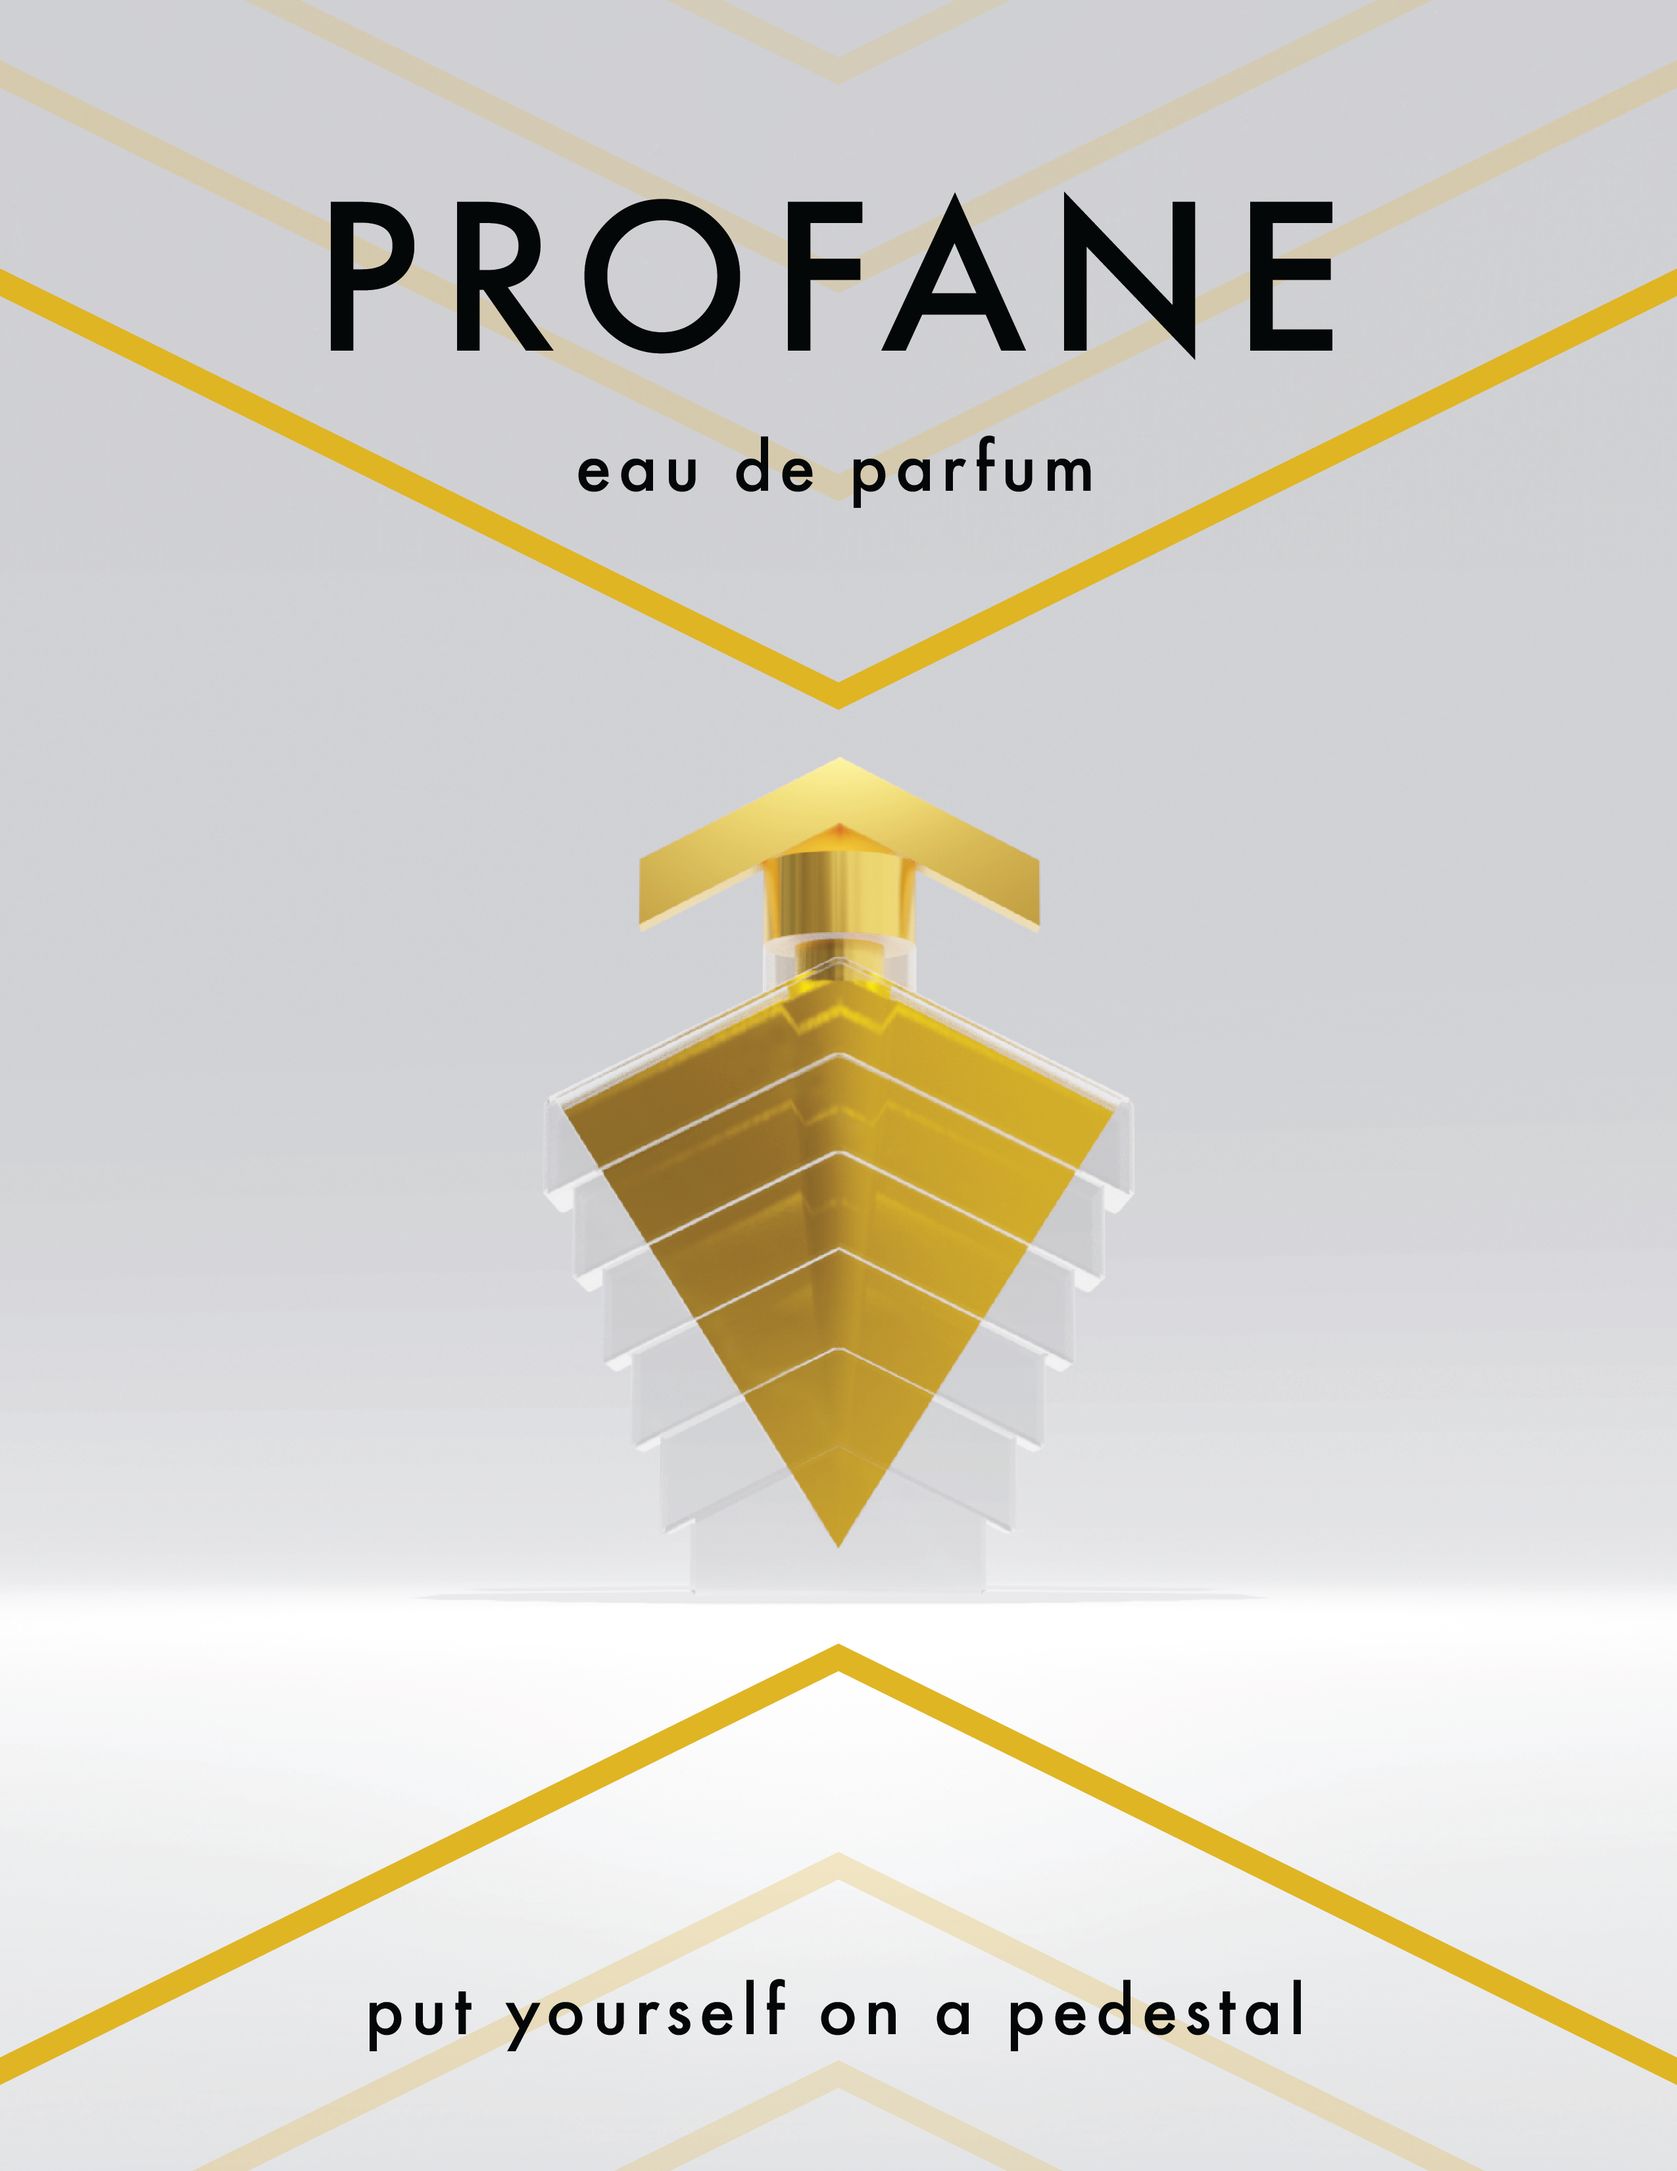
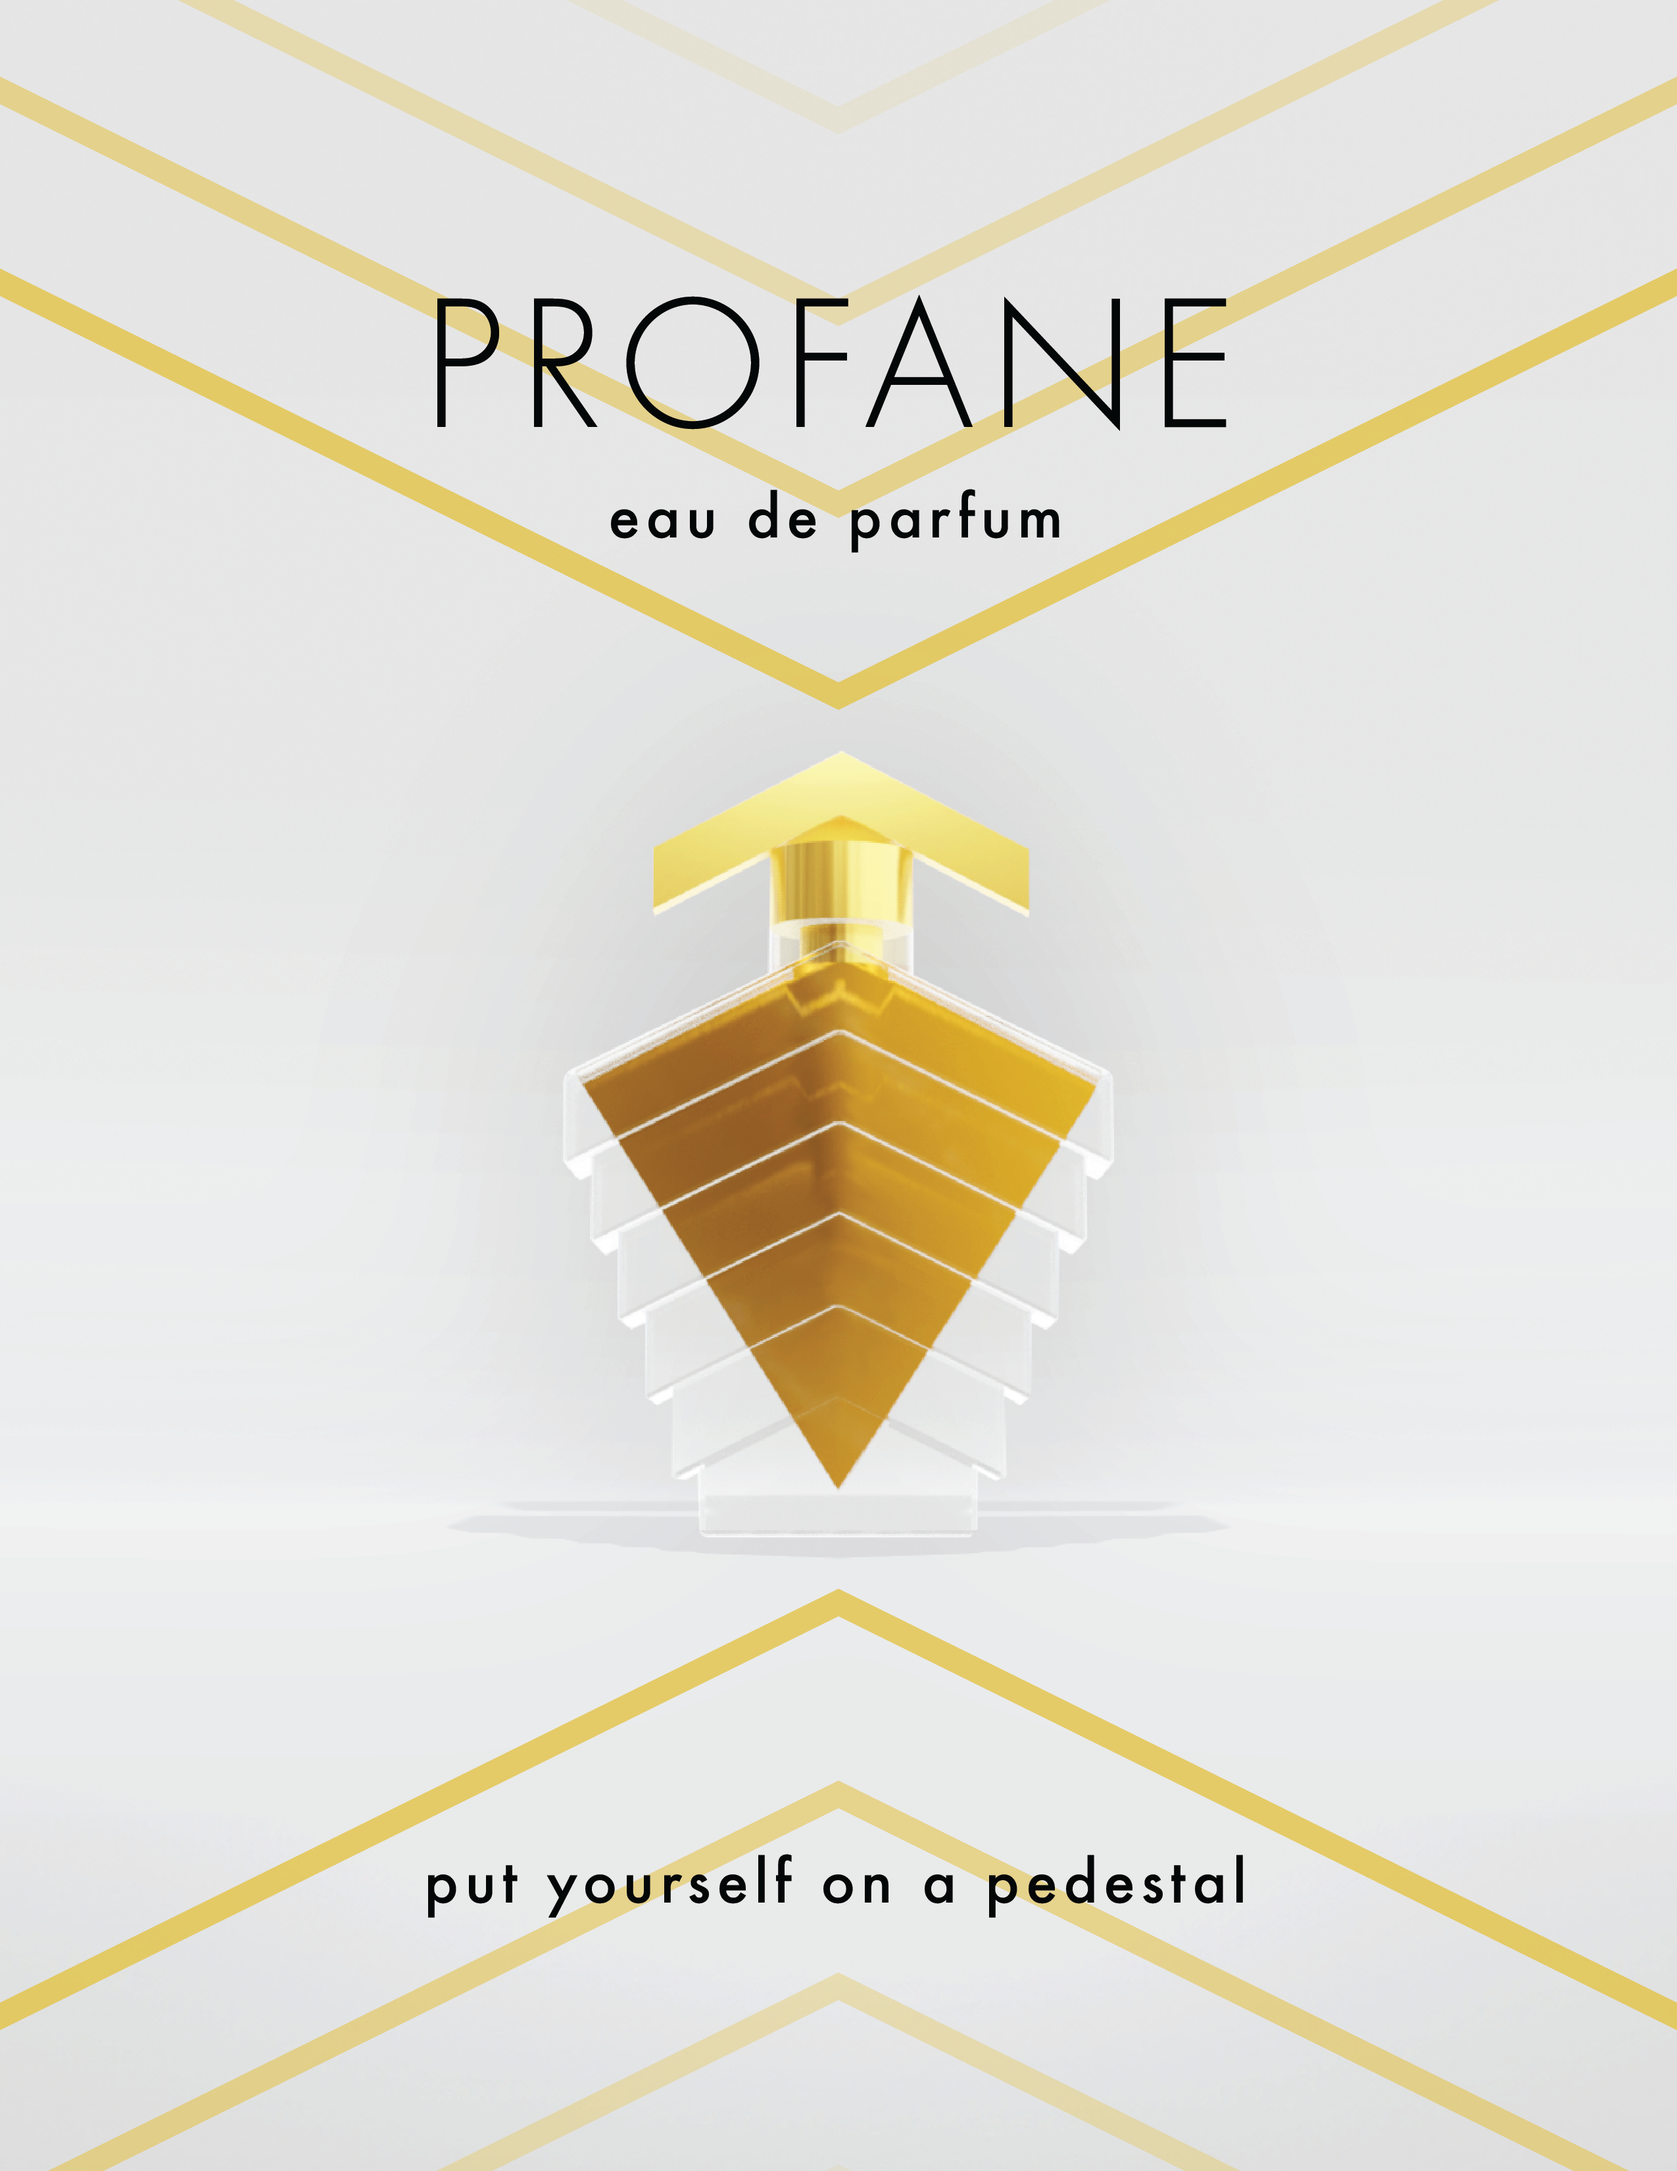
added thumbnail hover text and profane words

diff --git a/_sass/site/layouts/_projects.scss b/_sass/site/layouts/_projects.scss
@@ -179,7 +179,7 @@ $thumb-animation-ease-out: ease-in-out;
       &:hover .thumbnail-description-wrapper img,
       &:focus .thumbnail-description-wrapper img {
         filter:
-          grayscale(100%)
+          //grayscale(100%)
           //contrast(200%)
         ;
       }

diff --git a/_projects/profane.md b/_projects/profane.md
@@ -1,27 +1,29 @@
 ---
 
-gridorder: 2
+gridorder: 3
 date: 2023-10-29
-tools: adobe illustrator, blender
+tools: adobe illustrator, blender, adobe photoshop
 title: ""
-description: ""
+description: "PROFANE<br>fragrance packaging"
 time_period:
-thumbnail: "/profane/profane1.png"
+thumbnail: "/profanecover.png"
 intro: |
- Original bottle design for a fragrance called Profane. <br>
+ Original bottle design for a fragrance called Profane.
 
 content_layout:
   - section_layout: 1col-narrow
     images:
       - caption:
         description: ""
-        url: '/profane/profane1.png'
+        url: '/profane/finalrender.png'
+        positioning: 
         width:
         height:
-
   - section_layout: text
     content: |
-      original thumbnail sketches:
+      For this project, I received a sample of an evening fragrance which had a floral scent mixed with muskier notes of patchouli. The combination inspired the name “Sacred and Profane,” with “sacred” referencing the lighter, sweeter top notes and “profane” referencing the richer, earthier base notes. This was later shortened to just “Profane,” as a one-word name felt more impactful.<br>
+      
+      After coming up with the name, I created a series of thumbnail sketches:
   - section_layout: 2col
     images:
       - caption:
@@ -38,7 +40,9 @@ content_layout:
 
   - section_layout: text
     content: |
-      2D models:
+       Like the name, the bottle design I eventually decided on was inspired by the opposition of the sacred and the profane. I imagined sacred objects as having soft, rounded shapes like celestial bodies, so therefore a profane bottle should have more severe angles and pointed edges. The tapered kite shape of the fragrance inside the bottle is meant to evoke a more feminine figure than the broader silhouette of the exterior glass. <br>
+       
+       Here are the 2D models as I refined this idea further:
   - section_layout: 3col
     images:
       - caption:
@@ -57,10 +61,28 @@ content_layout:
         url: '/profane/2drenders-03.png'
         width:
         height:
+  
+  - section_layout: text
+    content: |
+      
+      Next, I took the design to Blender to create a 3D model:
+  - section_layout: 1col-narrow
+    images:
+      - caption:
+        description: ""
+        url: '/profane/profane1.png'
+        width:
+        height:
 
   - section_layout: text
     content: |
-      inspiration:
+      
+      I developed several different ideas for the fragrance's marketing materials. For the first round of print ads, I was inspired by the following definition of profane:<br>
+
+      <pre>"treat (something sacred) with irreverence or disrespect."</pre>
+
+      I decided to "profane" famous works of art by photoshopping my bottle into them. I did this first with Titian's "Sacred and Profane Love"
+
 
   - section_layout: 1col-narrow
     images:
@@ -69,10 +91,16 @@ content_layout:
         url: '/profane/sacred.png'
         width:
         height:
-
+  - section_layout: 1col-narrow
+    images:
+      - caption:
+        description: ""
+        url: '/profane/zoom2.png'
+        width:
+        height:
   - section_layout: text
     content: |
-      print ad iterations:
+      and then, to be consistent with the art deco aesthetic of the bottle, with Tamara de Lempicka's "Young Girl in Green":
   - section_layout: 3col
     images:
       - caption:
@@ -84,6 +112,7 @@ content_layout:
       - caption:
         description: ""
         url: '/profane/print2.png'
+        positioning: 
         width:
         height:
       - caption:
@@ -91,7 +120,9 @@ content_layout:
         url: '/profane/print3.png'
         width:
         height:
-
+  - section_layout: text
+    content: |
+      I experimented with some more art deco found images before pivoting to a more minimalistic look. For the final print ad, I changed the color of the fragrance and echoed the herringbone pattern from the side of the bottle and the gold from the cap.
   - section_layout: 3col
     images:
       - caption:
@@ -108,6 +139,40 @@ content_layout:
       - caption:
         description: ""
         url: '/profane/print6.png'
+        width:
+        height:
+
+  - section_layout: text
+    content: |
+      Other marketing materials including the vial card, box, shopping bag, and blotters followed the same approach as the minimalistic print ad:
+  - section_layout: 3col
+    images:
+      - caption:
+        description: ""
+        url: '/profane/VIALS.png'
+        positioning: 
+        width:
+        height:
+      - caption:
+        description: ""
+        url: '/profane/box.png'
+        width:
+        height:
+      - caption:
+        description: ""
+        url: '/profane/blotter.png'
+        width:
+        height:
+
+  - section_layout: text
+    content: |
+      Finally, I designed a counter display for the bottle as it would appear in a department store:
+  - section_layout: 1col-narrow
+    images:
+      - caption:
+        description: ""
+        url: '/profane/counterdisplay.png'
+        positioning: 
         width:
         height:
 

diff --git a/_projects/supernormal.md b/_projects/supernormal.md
@@ -1,12 +1,12 @@
 ---
 
-gridorder: 8
+gridorder: 2
 date: 2023-10-29
 tools: robofont
 title: ""
-description: ""
+description: "Supernormal Semibold<br>original typeface"
 time_period:
-thumbnail: "/supernormalcover.png"
+thumbnail: "/supernormal/supernormal-01.png"
 intro: |
  Supernormal Semibold<br>
  Original typeface
@@ -16,9 +16,19 @@ content_layout:
     images:
       - caption:
         description: ""
-        url: '/supernormal/supernormal.png'
+        url: '/supernormal/supernormal-02.png'
         width:
         height:
+
+  - section_layout: 1col-narrow
+    images:
+      - caption:
+        description: ""
+        url: '/supernormal/supernormal-03.png'
+        width:
+        height:
+
+
         
 
 ---

diff --git a/_projects/future.md b/_projects/future.md
@@ -4,11 +4,11 @@ gridorder: 12
 date: 2020-09-04
 tools: adobe illustrator
 title: ""
-description: ""
+description: "Hand lettering"
 time_period:
 thumbnail: "/future cover.png"
 intro: |
- Hand lettering assignment <br>
+ Hand lettering project <br>
  
  This Yogi Berra quote alludes to how our perception of the future changes over time. I tried to capture this idea using hand-drawn space age-inspired letters.
 

diff --git a/_projects/it-follows.md b/_projects/it-follows.md
@@ -1,10 +1,10 @@
 ---
 
-gridorder: 5
+gridorder: 6
 date: 2020-10-28
 tools: adobe illustrator, adobe photoshop
 title: ""
-description: ""
+description: "It Follows<br>movie poster redesign"
 time_period:
 thumbnail: "/it-follows cover.png"
 intro: |

diff --git a/_projects/Grouplove.md b/_projects/Grouplove.md
@@ -1,10 +1,10 @@
 ---
 
-gridorder: 3
+gridorder: 5
 date: 2020-11-02
 tools: adobe illustrator
 title: ""
-description: ""
+description: "Grouplove<br>album jacket redesign"
 time_period:
 thumbnail: "/grouplove cover.png"
 intro: |

diff --git a/_projects/serifs.md b/_projects/serifs.md
@@ -1,10 +1,10 @@
 ---
 
-gridorder: 10
+gridorder: 8
 date: 2020-10-26
 tools: adobe illustrator
 title: ""
-description: ""
+description: "Just Serifs<br>original typeface"
 time_period:
 thumbnail: "/justserifscover.png"
 intro: |

diff --git a/_projects/spooky.md b/_projects/spooky.md
@@ -1,10 +1,10 @@
 ---
 
-gridorder: 9
+gridorder: 7
 date: 2021-04-30
 tools: adobe illustrator
 title: ""
-description: ""
+description: "Spooky Phantom<br>original typeface"
 time_period:
 thumbnail: "/spookycover.png"
 intro: |

diff --git a/_projects/aii.md b/_projects/aii.md
@@ -4,7 +4,7 @@ gridorder: 1
 date: 2022-03-11
 tools: adobe illustrator
 title: ""
-description: ""
+description: "Annenberg Inclusion Initiative<br>infographics & logos"
 time_period:
 thumbnail: "/aiicover.png"
 intro: |

diff --git a/_projects/icanthearyou.md b/_projects/icanthearyou.md
@@ -1,10 +1,10 @@
 ---
 
-gridorder: 7
+gridorder: 9
 date: 2021-02-07
 tools:
 title: ""
-description: ""
+description: "I Can't Hear You<br>hanging sculpture"
 time_period:
 thumbnail: "/icanthearyou cover.png"
 intro: |

diff --git a/_projects/17776.md b/_projects/17776.md
@@ -4,7 +4,7 @@ gridorder: 14
 date: 2020-10-14
 tools: adobe illustrator, adobe photoshop
 title: ""
-description: ""
+description: "17776<br>paper currency design"
 time_period:
 thumbnail: "/17776 cover.png"
 intro: |

diff --git a/_projects/rihanna.md b/_projects/rihanna.md
@@ -1,10 +1,10 @@
 ---
 
-gridorder: 6
+gridorder: 10
 date: 2020-09-24
 tools: adobe illustrator
 title: ""
-description: ""
+description: "Digital portraits"
 time_period:
 thumbnail: "/rihanna.png"
 intro: |
